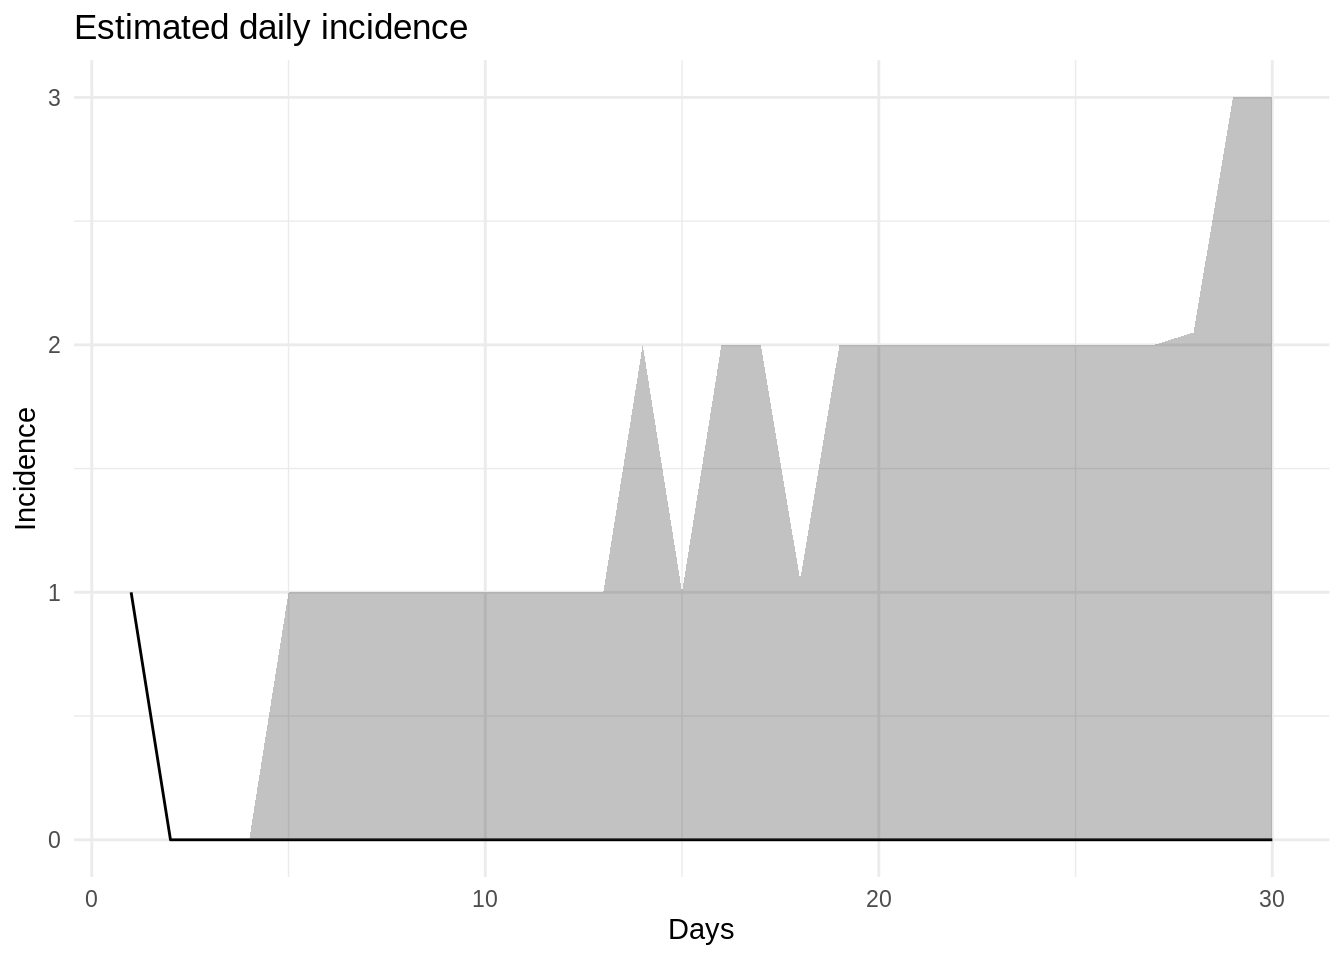
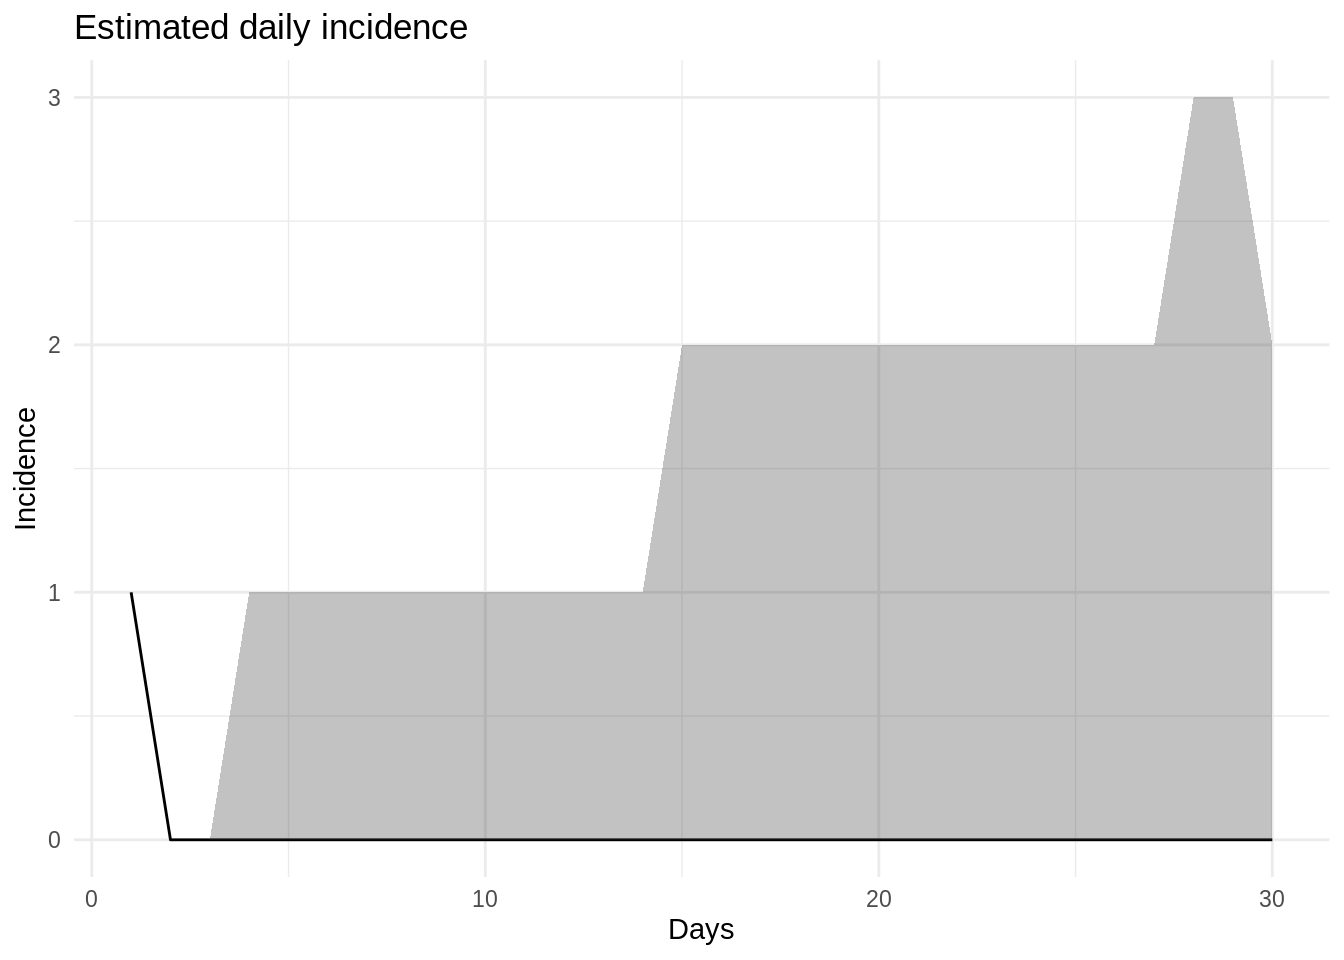
Deploy folkehelseinstituttet/spread to github.com/folkehelseinstituttet/spread.git:gh-pages

diff --git a/articles/asymmetric_mobility_intro.html b/articles/asymmetric_mobility_intro.html
@@ -104,7 +104,7 @@
 <div class="sourceCode" id="cb1"><pre class="sourceCode r"><code class="sourceCode r"><a class="sourceLine" id="cb1-1" data-line-number="1"><span class="kw"><a href="https://rdrr.io/r/base/library.html">library</a></span>(spread)</a>
 <a class="sourceLine" id="cb1-2" data-line-number="2"><span class="co">#&gt; </span></a>
 <a class="sourceLine" id="cb1-3" data-line-number="3"><span class="co">#&gt; PACKAGE: spread</span></a>
-<a class="sourceLine" id="cb1-4" data-line-number="4"><span class="co">#&gt; Version: 2020.03.18 at 18:16</span></a>
+<a class="sourceLine" id="cb1-4" data-line-number="4"><span class="co">#&gt; Version: 2020.03.18 at 19:09</span></a>
 <a class="sourceLine" id="cb1-5" data-line-number="5"><span class="co">#&gt; </span></a>
 <a class="sourceLine" id="cb1-6" data-line-number="6"><span class="co">#&gt; Commuter model and C++ code developed by Solveig Engebretsen and Andreas Nygård Osnes</span></a>
 <a class="sourceLine" id="cb1-7" data-line-number="7"><span class="co">#&gt; Asymmetric mobility model and C++ code developed by Solveig Engebretsen</span></a>
@@ -153,35 +153,35 @@
 <p><code>c_*</code> variables represent the current status of all the people existing in that geographical location at that time point.</p>
 <div class="sourceCode" id="cb6"><pre class="sourceCode r"><code class="sourceCode r"><a class="sourceLine" id="cb6-1" data-line-number="1"><span class="kw"><a href="https://rdrr.io/r/base/print.html">print</a></span>(d)</a>
 <a class="sourceLine" id="cb6-2" data-line-number="2"><span class="co">#&gt;     location_code week day  time  b_S b_E b_I b_Ia b_R  c_S c_E c_I c_Ia c_R</span></a>
-<a class="sourceLine" id="cb6-3" data-line-number="3"><span class="co">#&gt;  1:             a    1   1 23:59  966  23  48    0  13  812  22  43    0  13</span></a>
-<a class="sourceLine" id="cb6-4" data-line-number="4"><span class="co">#&gt;  2:             a    1   2 23:59  945  28  45    0  32  652  23  30    0  25</span></a>
-<a class="sourceLine" id="cb6-5" data-line-number="5"><span class="co">#&gt;  3:             a    1   3 23:59  930  27  42    0  51  506  18  22    0  24</span></a>
-<a class="sourceLine" id="cb6-6" data-line-number="6"><span class="co">#&gt;  4:             a    1   4 23:59  910  30  43    0  67  347  16  20    0  27</span></a>
-<a class="sourceLine" id="cb6-7" data-line-number="7"><span class="co">#&gt;  5:             a    1   5 23:59  881  39  45    0  85  200  15   9    0  26</span></a>
-<a class="sourceLine" id="cb6-8" data-line-number="8"><span class="co">#&gt;  6:             b    1   1 23:59  999   1   0    0   0 1153   2   5    0   0</span></a>
-<a class="sourceLine" id="cb6-9" data-line-number="9"><span class="co">#&gt;  7:             b    1   2 23:59  992   8   0    0   0 1285  13  15    0   7</span></a>
-<a class="sourceLine" id="cb6-10" data-line-number="10"><span class="co">#&gt;  8:             b    1   3 23:59  981  12   7    0   0 1405  21  27    0  27</span></a>
-<a class="sourceLine" id="cb6-11" data-line-number="11"><span class="co">#&gt;  9:             b    1   4 23:59  965  20   9    0   6 1528  34  32    0  46</span></a>
-<a class="sourceLine" id="cb6-12" data-line-number="12"><span class="co">#&gt; 10:             b    1   5 23:59  955  13  21    0  11 1636  37  57    0  70</span></a>
+<a class="sourceLine" id="cb6-3" data-line-number="3"><span class="co">#&gt;  1:             a    1   1 23:59  968  27  41    0  14  814  26  37    0  13</span></a>
+<a class="sourceLine" id="cb6-4" data-line-number="4"><span class="co">#&gt;  2:             a    1   2 23:59  945  32  46    0  27  648  27  35    0  20</span></a>
+<a class="sourceLine" id="cb6-5" data-line-number="5"><span class="co">#&gt;  3:             a    1   3 23:59  921  35  46    0  48  486  26  28    0  30</span></a>
+<a class="sourceLine" id="cb6-6" data-line-number="6"><span class="co">#&gt;  4:             a    1   4 23:59  891  42  49    0  68  338  20  27    0  25</span></a>
+<a class="sourceLine" id="cb6-7" data-line-number="7"><span class="co">#&gt;  5:             a    1   5 23:59  863  39  54    0  94  189  14  15    0  32</span></a>
+<a class="sourceLine" id="cb6-8" data-line-number="8"><span class="co">#&gt;  6:             b    1   1 23:59  998   2   0    0   0 1152   3   4    0   1</span></a>
+<a class="sourceLine" id="cb6-9" data-line-number="9"><span class="co">#&gt;  7:             b    1   2 23:59  996   3   0    0   1 1293   8  11    0   8</span></a>
+<a class="sourceLine" id="cb6-10" data-line-number="10"><span class="co">#&gt;  8:             b    1   3 23:59  991   4   4    0   1 1426  13  22    0  19</span></a>
+<a class="sourceLine" id="cb6-11" data-line-number="11"><span class="co">#&gt;  9:             b    1   4 23:59  986   7   3    0   4 1539  29  25    0  47</span></a>
+<a class="sourceLine" id="cb6-12" data-line-number="12"><span class="co">#&gt; 10:             b    1   5 23:59  972  18   5    0   5 1646  43  44    0  67</span></a>
 <a class="sourceLine" id="cb6-13" data-line-number="13"><span class="co">#&gt; 11:             c    1   1 23:59 2000   0   0    0   0 2000   0   0    0   0</span></a>
-<a class="sourceLine" id="cb6-14" data-line-number="14"><span class="co">#&gt; 12:             c    1   2 23:59 1999   1   0    0   0 1999   1   0    0   0</span></a>
-<a class="sourceLine" id="cb6-15" data-line-number="15"><span class="co">#&gt; 13:             c    1   3 23:59 1999   0   1    0   0 1999   0   1    0   0</span></a>
-<a class="sourceLine" id="cb6-16" data-line-number="16"><span class="co">#&gt; 14:             c    1   4 23:59 1999   0   0    0   1 1999   0   0    0   1</span></a>
-<a class="sourceLine" id="cb6-17" data-line-number="17"><span class="co">#&gt; 15:             c    1   5 23:59 1998   1   0    0   1 1998   1   0    0   1</span></a>
+<a class="sourceLine" id="cb6-14" data-line-number="14"><span class="co">#&gt; 12:             c    1   2 23:59 1999   0   1    0   0 1999   0   1    0   0</span></a>
+<a class="sourceLine" id="cb6-15" data-line-number="15"><span class="co">#&gt; 13:             c    1   3 23:59 1998   1   1    0   0 1998   1   1    0   0</span></a>
+<a class="sourceLine" id="cb6-16" data-line-number="16"><span class="co">#&gt; 14:             c    1   4 23:59 1997   2   0    0   1 1997   2   0    0   1</span></a>
+<a class="sourceLine" id="cb6-17" data-line-number="17"><span class="co">#&gt; 15:             c    1   5 23:59 1996   2   1    0   1 1996   2   1    0   1</span></a>
 <a class="sourceLine" id="cb6-18" data-line-number="18"><span class="co">#&gt;     c_incidence</span></a>
-<a class="sourceLine" id="cb6-19" data-line-number="19"><span class="co">#&gt;  1:           4</span></a>
-<a class="sourceLine" id="cb6-20" data-line-number="20"><span class="co">#&gt;  2:           1</span></a>
-<a class="sourceLine" id="cb6-21" data-line-number="21"><span class="co">#&gt;  3:           2</span></a>
+<a class="sourceLine" id="cb6-19" data-line-number="19"><span class="co">#&gt;  1:           0</span></a>
+<a class="sourceLine" id="cb6-20" data-line-number="20"><span class="co">#&gt;  2:           3</span></a>
+<a class="sourceLine" id="cb6-21" data-line-number="21"><span class="co">#&gt;  3:           4</span></a>
 <a class="sourceLine" id="cb6-22" data-line-number="22"><span class="co">#&gt;  4:           3</span></a>
-<a class="sourceLine" id="cb6-23" data-line-number="23"><span class="co">#&gt;  5:           0</span></a>
+<a class="sourceLine" id="cb6-23" data-line-number="23"><span class="co">#&gt;  5:           2</span></a>
 <a class="sourceLine" id="cb6-24" data-line-number="24"><span class="co">#&gt;  6:           0</span></a>
-<a class="sourceLine" id="cb6-25" data-line-number="25"><span class="co">#&gt;  7:           1</span></a>
-<a class="sourceLine" id="cb6-26" data-line-number="26"><span class="co">#&gt;  8:           2</span></a>
-<a class="sourceLine" id="cb6-27" data-line-number="27"><span class="co">#&gt;  9:           3</span></a>
-<a class="sourceLine" id="cb6-28" data-line-number="28"><span class="co">#&gt; 10:           4</span></a>
+<a class="sourceLine" id="cb6-25" data-line-number="25"><span class="co">#&gt;  7:           2</span></a>
+<a class="sourceLine" id="cb6-26" data-line-number="26"><span class="co">#&gt;  8:           3</span></a>
+<a class="sourceLine" id="cb6-27" data-line-number="27"><span class="co">#&gt;  9:           1</span></a>
+<a class="sourceLine" id="cb6-28" data-line-number="28"><span class="co">#&gt; 10:           2</span></a>
 <a class="sourceLine" id="cb6-29" data-line-number="29"><span class="co">#&gt; 11:           0</span></a>
 <a class="sourceLine" id="cb6-30" data-line-number="30"><span class="co">#&gt; 12:           0</span></a>
-<a class="sourceLine" id="cb6-31" data-line-number="31"><span class="co">#&gt; 13:           1</span></a>
+<a class="sourceLine" id="cb6-31" data-line-number="31"><span class="co">#&gt; 13:           0</span></a>
 <a class="sourceLine" id="cb6-32" data-line-number="32"><span class="co">#&gt; 14:           0</span></a>
 <a class="sourceLine" id="cb6-33" data-line-number="33"><span class="co">#&gt; 15:           0</span></a></code></pre></div>
 </div>

diff --git a/reference/asymmetric_mobility_se1e2iiar.html b/reference/asymmetric_mobility_se1e2iiar.html
@@ -196,6 +196,30 @@
     </tr>
     </table>
 
+    <h2 class="hasAnchor" id="value"><a class="anchor" href="#value"></a>Value</h2>
+
+    <p>A data.table containing the following variables:</p><dl class='dl-horizontal'>
+<dt>location_code</dt><dd><p>Location code</p></dd>
+<dt>week</dt><dd><p>Week number</p></dd>
+<dt>day</dt><dd><p>Day number</p></dd>
+<dt>time</dt><dd><p>Time of reporting (23:59)</p></dd>
+<dt>b_S</dt><dd><p>Susceptibles belonging to location code</p></dd>
+<dt>b_E1</dt><dd><p>E1s belonging to location code</p></dd>
+<dt>b_E2</dt><dd><p>E2s belonging to location code</p></dd>
+<dt>b_I</dt><dd><p>Infectious (symptomatic) belonging to location code</p></dd>
+<dt>b_Ia</dt><dd><p>Infectious (asymptomatic) belonging to location code</p></dd>
+<dt>b_R</dt><dd><p>Recovered belonging to location code</p></dd>
+<dt>c_S</dt><dd><p>Susceptibles currently in this location code</p></dd>
+<dt>c_E1</dt><dd><p>E1s currently in this location code</p></dd>
+<dt>c_E2</dt><dd><p>E2s currently in this location code</p></dd>
+<dt>c_I</dt><dd><p>Infectious (symptomatic) currently in this location code</p></dd>
+<dt>c_Ia</dt><dd><p>Infectious (asymptomatic) currently in this location code</p></dd>
+<dt>c_R</dt><dd><p>Recovered currently in this location code</p></dd>
+<dt>c_symp_incidence</dt><dd><p>Transition from E2 to I currently in this location code</p></dd>
+<dt>c_asymp_incidence</dt><dd><p>Transition from E1 to Ia currently in this location code</p></dd>
+
+</dl>
+
 
     <h2 class="hasAnchor" id="examples"><a class="anchor" href="#examples"></a>Examples</h2>
     <pre class="examples"><div class='input'><span class='kw pkg'>spread</span><span class='kw ns'>::</span><span class='fu'><a href='https://rdrr.io/pkg/spread/man/asymmetric_mobility_se1e2iiar.html'>asymmetric_mobility_se1e2iiar</a></span>(
@@ -211,32 +235,32 @@
   <span class='kw'>asymptomatic_relative_infectiousness</span> <span class='kw'>=</span> <span class='fl'>0</span>,
   <span class='kw'>N</span> <span class='kw'>=</span> <span class='fl'>1</span>
 )</div><div class='output co'>#&gt;     location_code week day  time  b_S b_E1 b_E2 b_I b_Ia b_R  c_S c_E1 c_E2 c_I
-#&gt;  1:             a    1   1 23:59  986   11    2  41    0  10  833   11    2  36
-#&gt;  2:             a    1   2 23:59  962   24    6  39    0  19  660   21    4  32
-#&gt;  3:             a    1   3 23:59  939   36   12  36    0  27  495   24    8  27
-#&gt;  4:             a    1   4 23:59  911   41   26  37    0  35  348   17    9  21
-#&gt;  5:             a    1   5 23:59  879   47   33  48    0  43  196   16   11  13
-#&gt;  6:             b    1   1 23:59  996    4    0   0    0   0 1149    4    0   5
-#&gt;  7:             b    1   2 23:59  993    4    3   0    0   0 1295    7    5   7
-#&gt;  8:             b    1   3 23:59  983    8    4   4    0   1 1427   20    8  13
-#&gt;  9:             b    1   4 23:59  967   21    6   5    0   1 1530   45   23  21
-#&gt; 10:             b    1   5 23:59  944   30   19   5    0   2 1627   61   41  40
-#&gt; 11:             c    1   1 23:59 1999    1    0   0    0   0 1999    1    0   0
-#&gt; 12:             c    1   2 23:59 1999    1    0   0    0   0 1999    1    0   0
-#&gt; 13:             c    1   3 23:59 1999    1    0   0    0   0 1999    1    0   0
+#&gt;  1:             a    1   1 23:59  974   22    3  40    0  11  823   20    2  35
+#&gt;  2:             a    1   2 23:59  956   29    8  40    0  17  656   27    6  27
+#&gt;  3:             a    1   3 23:59  934   27   24  39    0  26  500   18   16  20
+#&gt;  4:             a    1   4 23:59  915   29   24  49    0  33  351   14   11  20
+#&gt;  5:             a    1   5 23:59  877   45   33  49    0  46  202   13   12   8
+#&gt;  6:             b    1   1 23:59  995    5    0   0    0   0 1146    7    1   5
+#&gt;  7:             b    1   2 23:59  985   12    3   0    0   0 1285   14    5  13
+#&gt;  8:             b    1   3 23:59  973   16    5   5    0   1 1407   25   13  24
+#&gt;  9:             b    1   4 23:59  961   21   10   6    0   2 1525   36   23  35
+#&gt; 10:             b    1   5 23:59  938   35   18   5    0   4 1613   67   39  46
+#&gt; 11:             c    1   1 23:59 2000    0    0   0    0   0 2000    0    0   0
+#&gt; 12:             c    1   2 23:59 2000    0    0   0    0   0 2000    0    0   0
+#&gt; 13:             c    1   3 23:59 2000    0    0   0    0   0 2000    0    0   0
 #&gt; 14:             c    1   4 23:59 1999    1    0   0    0   0 1999    1    0   0
-#&gt; 15:             c    1   5 23:59 1999    1    0   0    0   0 1999    1    0   0
+#&gt; 15:             c    1   5 23:59 1999    0    1   0    0   0 1999    0    1   0
 #&gt;     c_Ia c_R c_symp_incidence c_saymp_incidence
-#&gt;  1:    0   8                1                 0
-#&gt;  2:    0  13                6                 0
-#&gt;  3:    0  16                4                 0
-#&gt;  4:    0  15                9                 0
-#&gt;  5:    0  14               11                 0
-#&gt;  6:    0   2                0                 0
-#&gt;  7:    0   6                1                 0
-#&gt;  8:    0  12                6                 0
-#&gt;  9:    0  21                1                 0
-#&gt; 10:    0  31                9                 0
+#&gt;  1:    0  10                1                 0
+#&gt;  2:    0  14                4                 0
+#&gt;  3:    0  16                7                 0
+#&gt;  4:    0  14               11                 0
+#&gt;  5:    0  15                7                 0
+#&gt;  6:    0   1                0                 0
+#&gt;  7:    0   3                2                 0
+#&gt;  8:    0  11                7                 0
+#&gt;  9:    0  21                8                 0
+#&gt; 10:    0  35                7                 0
 #&gt; 11:    0   0                0                 0
 #&gt; 12:    0   0                0                 0
 #&gt; 13:    0   0                0                 0
@@ -247,6 +271,7 @@
     <h2>Contents</h2>
     <ul class="nav nav-pills nav-stacked">
       <li><a href="#arguments">Arguments</a></li>
+      <li><a href="#value">Value</a></li>
       <li><a href="#examples">Examples</a></li>
     </ul>
 

diff --git a/reference/asymmetric_mobility.html b/reference/asymmetric_mobility.html
@@ -199,37 +199,37 @@
   <span class='kw'>asymptomatic_relative_infectiousness</span> <span class='kw'>=</span> <span class='fl'>0</span>,
   <span class='kw'>N</span> <span class='kw'>=</span> <span class='fl'>1</span>
 )</div><div class='output co'>#&gt;     location_code week day  time  b_S b_E b_I b_Ia b_R  c_S c_E c_I c_Ia c_R
-#&gt;  1:             a    1   1 23:59  972  23  44    0  11  824  22  35    0   9
-#&gt;  2:             a    1   2 23:59  948  33  47    0  22  659  24  30    0  17
-#&gt;  3:             a    1   3 23:59  923  41  44    0  42  493  24  29    0  24
-#&gt;  4:             a    1   4 23:59  899  41  50    0  60  341  18  27    0  24
-#&gt;  5:             a    1   5 23:59  875  41  55    0  79  193  15  23    0  19
-#&gt;  6:             b    1   1 23:59  997   2   1    0   0 1145   3  10    0   2
-#&gt;  7:             b    1   2 23:59  989   9   2    0   0 1278  18  19    0   5
-#&gt;  8:             b    1   3 23:59  975  13   7    0   5 1405  30  22    0  23
-#&gt;  9:             b    1   4 23:59  963  20   9    0   8 1521  43  32    0  44
-#&gt; 10:             b    1   5 23:59  951  21  17    0  11 1633  47  49    0  71
+#&gt;  1:             a    1   1 23:59  975  20  40    0  15  825  19  33    0  13
+#&gt;  2:             a    1   2 23:59  954  29  42    0  25  659  22  31    0  18
+#&gt;  3:             a    1   3 23:59  936  29  39    0  46  507  17  20    0  26
+#&gt;  4:             a    1   4 23:59  917  26  50    0  57  357  12  20    0  21
+#&gt;  5:             a    1   5 23:59  895  25  50    0  80  215   9  11    0  15
+#&gt;  6:             b    1   1 23:59 1000   0   0    0   0 1150   1   7    0   2
+#&gt;  7:             b    1   2 23:59  998   2   0    0   0 1293   9  11    0   7
+#&gt;  8:             b    1   3 23:59  987   8   5    0   0 1416  20  24    0  20
+#&gt;  9:             b    1   4 23:59  980  10   9    0   1 1540  24  39    0  37
+#&gt; 10:             b    1   5 23:59  968  12  11    0   9 1648  28  50    0  74
 #&gt; 11:             c    1   1 23:59 2000   0   0    0   0 2000   0   0    0   0
 #&gt; 12:             c    1   2 23:59 2000   0   0    0   0 2000   0   0    0   0
-#&gt; 13:             c    1   3 23:59 1999   1   0    0   0 1999   1   0    0   0
-#&gt; 14:             c    1   4 23:59 1998   1   1    0   0 1998   1   1    0   0
-#&gt; 15:             c    1   5 23:59 1994   2   4    0   0 1994   2   4    0   0
+#&gt; 13:             c    1   3 23:59 2000   0   0    0   0 2000   0   0    0   0
+#&gt; 14:             c    1   4 23:59 2000   0   0    0   0 2000   0   0    0   0
+#&gt; 15:             c    1   5 23:59 2000   0   0    0   0 2000   0   0    0   0
 #&gt;     c_incidence
 #&gt;  1:           2
-#&gt;  2:           1
-#&gt;  3:           1
+#&gt;  2:           2
+#&gt;  3:           2
 #&gt;  4:           2
 #&gt;  5:           1
 #&gt;  6:           0
-#&gt;  7:           2
+#&gt;  7:           1
 #&gt;  8:           1
-#&gt;  9:           2
-#&gt; 10:           8
+#&gt;  9:           1
+#&gt; 10:           4
 #&gt; 11:           0
 #&gt; 12:           0
 #&gt; 13:           0
 #&gt; 14:           0
-#&gt; 15:           2</div></pre>
+#&gt; 15:           0</div></pre>
   </div>
   <div class="col-md-3 hidden-xs hidden-sm" id="sidebar">
     <h2>Contents</h2>

diff --git a/articles/branching_process.html b/articles/branching_process.html
@@ -139,7 +139,7 @@
 <a class="sourceLine" id="cb4-2" data-line-number="2"><span class="kw"><a href="https://rdrr.io/r/base/print.html">print</a></span>(<span class="kw"><a href="https://rdrr.io/r/stats/median.html">median</a></span>(summary<span class="op">$</span>cumulative[<span class="dv">30</span>,]))</a>
 <a class="sourceLine" id="cb4-3" data-line-number="3"><span class="co">#&gt; [1] 5</span></a>
 <a class="sourceLine" id="cb4-4" data-line-number="4"><span class="kw"><a href="https://rdrr.io/r/base/print.html">print</a></span>(summary<span class="op">$</span>p_no_spread)</a>
-<a class="sourceLine" id="cb4-5" data-line-number="5"><span class="co">#&gt; [1] 0.287</span></a></code></pre></div>
+<a class="sourceLine" id="cb4-5" data-line-number="5"><span class="co">#&gt; [1] 0.247</span></a></code></pre></div>
 <p>The median number of cases is around 50, with a probability of no spread is around 6%.</p>
 </div>
 <div id="estimating-parameters-via-approximate-bayesian-computation-abc" class="section level1">
@@ -171,7 +171,7 @@
 <a class="sourceLine" id="cb5-23" data-line-number="23">  )</a>
 <a class="sourceLine" id="cb5-24" data-line-number="24"><span class="kw"><a href="https://rdrr.io/r/base/print.html">print</a></span>(HDInterval<span class="op">::</span><span class="kw"><a href="https://rdrr.io/pkg/HDInterval/man/hdi.html">hdi</a></span>(r<span class="op">$</span>R0))</a>
 <a class="sourceLine" id="cb5-25" data-line-number="25"><span class="co">#&gt; lower upper </span></a>
-<a class="sourceLine" id="cb5-26" data-line-number="26"><span class="co">#&gt;   2.0   4.4 </span></a>
+<a class="sourceLine" id="cb5-26" data-line-number="26"><span class="co">#&gt;  2.00  4.35 </span></a>
 <a class="sourceLine" id="cb5-27" data-line-number="27"><span class="co">#&gt; attr(,"credMass")</span></a>
 <a class="sourceLine" id="cb5-28" data-line-number="28"><span class="co">#&gt; [1] 0.95</span></a></code></pre></div>
 </div>

diff --git a/news/index.html b/news/index.html
@@ -131,6 +131,12 @@
       
     </div>
 
+    <div id="spread-2020-3-18" class="section level1">
+<h1 class="page-header">
+<a href="#spread-2020-3-18" class="anchor"></a>spread 2020.3.18<small> Unreleased </small>
+</h1>
+<p>Including asymptomatic incidence in asymmetric_mobility_se1e2iiar</p>
+</div>
     <div id="spread-2020-3-14" class="section level1">
 <h1 class="page-header">
 <a href="#spread-2020-3-14" class="anchor"></a>spread 2020.3.14<small> Unreleased </small>
@@ -232,6 +238,7 @@
     <div id="tocnav">
       <h2>Contents</h2>
       <ul class="nav nav-pills nav-stacked">
+        <li><a href="#spread-2020-3-18">2020.3.18</a></li>
         <li><a href="#spread-2020-3-14">2020.3.14</a></li>
         <li><a href="#spread-2020-3-5">2020.3.5</a></li>
         <li><a href="#spread-2020-1-31">2020.1.31</a></li>
